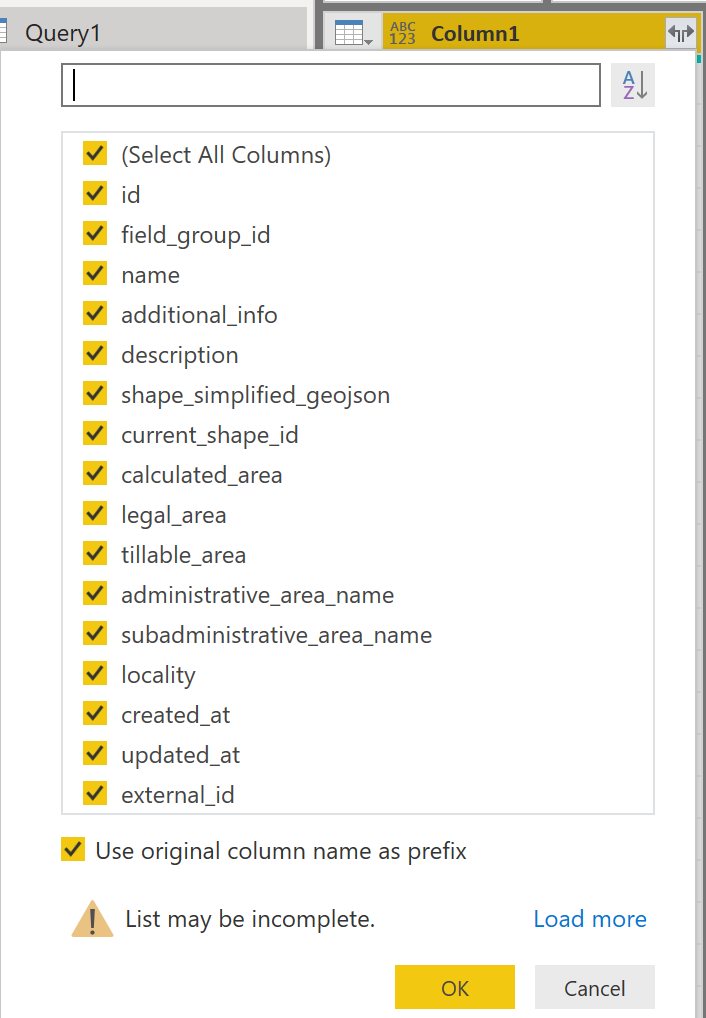
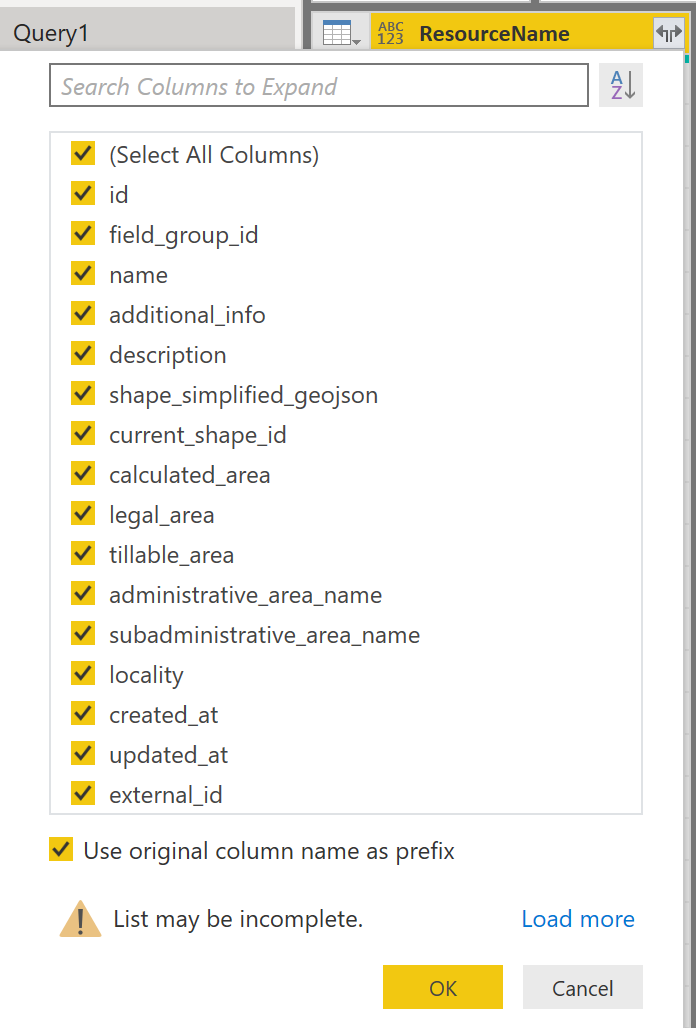
Change step 5 screen and description (#5)

diff --git a/README.md b/README.md
@@ -22,7 +22,7 @@ PowerBI examples to work with Cropio HTTP API
 
 ![Screenshot](/images/complete_query.png)
 
-#### Step 5: After running script Select the column split icon in the Column1 header. Select columns what you need and select **OK** button.
+#### Step 5: After running script Select the column split icon in the ResourceName header. Select columns what you need and select **OK** button.
 
 ![Screenshot](/images/select_data_columns.png)
 
